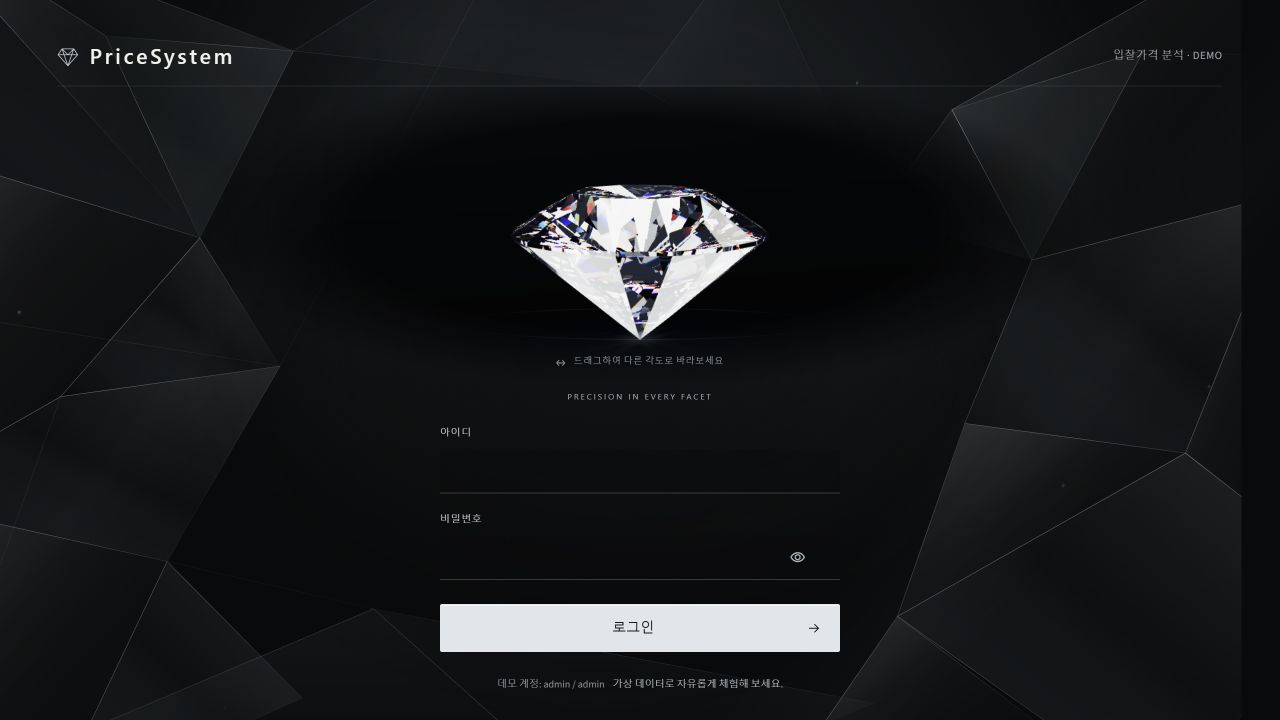
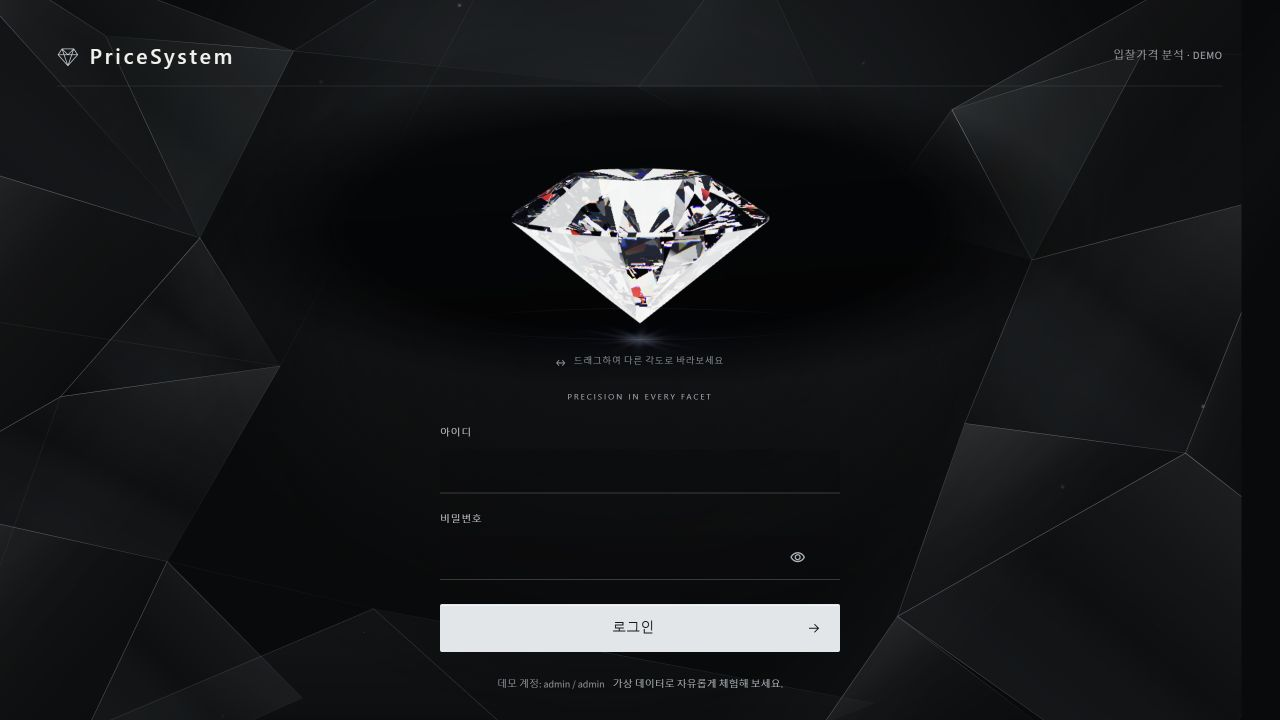
docs: feature refreshed demo login screenshot

Changed region(s): [[0.4062, 0.2139, 0.5938, 0.4889]]

diff --git a/README.md b/README.md
@@ -40,6 +40,12 @@ PriceSystem은 공고와 관련 자료를 등록하고, 분석 화면을 거쳐 
 
 ## 화면 미리보기
 
+### 로그인
+
+공개 체험 계정으로 시작하는 데모 로그인 화면입니다.
+
+![PriceSystem 데모 로그인 화면](docs/images/login.png)
+
 ### 홈과 업무 공간
 
 업무 바로가기에서 필요한 화면을 열고, 여러 업무 탭 사이를 이동할 수 있습니다.
@@ -61,13 +67,6 @@ PriceSystem은 공고와 관련 자료를 등록하고, 분석 화면을 거쳐 
 공고를 선택하고 시연용 추천 결과를 확인합니다. 표시되는 금액은 실제 분석 결과가 아닌 고정 샘플입니다.
 
 ![고정 샘플 안내가 표시된 분석 화면](docs/images/analysis.png)
-
-</details>
-
-<details>
-<summary><strong>로그인 화면 보기</strong> — 공개 체험 계정으로 시작</summary>
-
-![PriceSystem 데모 로그인 화면](docs/images/login.png)
 
 </details>
 
